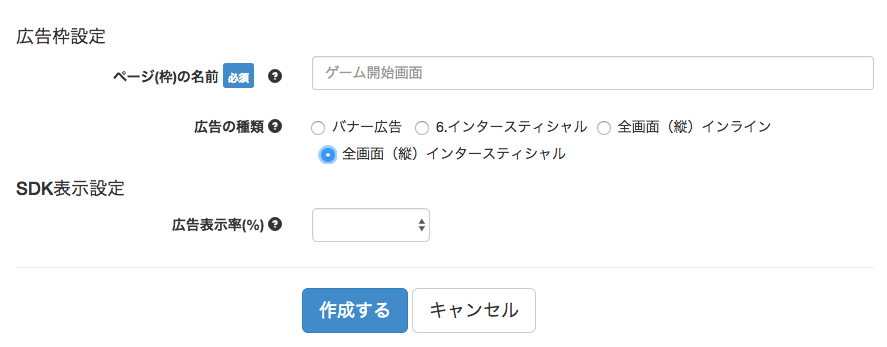
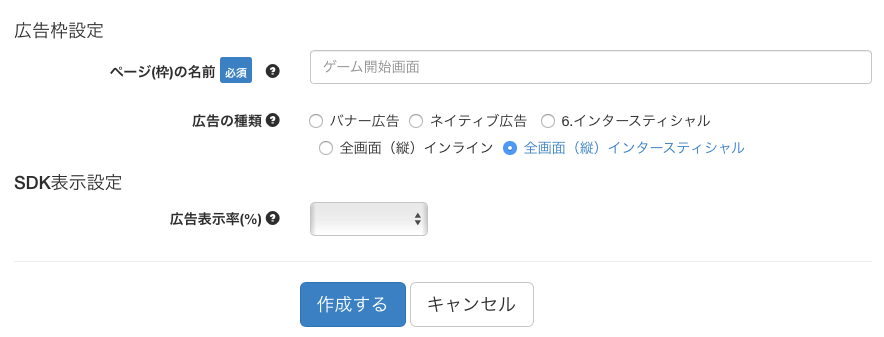
add native ad

diff --git a/media/dashboard/Zucks-Ad-Network-creating-apps-and-ad-units-en.md b/media/dashboard/Zucks-Ad-Network-creating-apps-and-ad-units-en.md
@@ -12,6 +12,7 @@ Describes the steps to create Ad Unit on the Zucks Ad Network dashboard.
     - Interstitial
     - Inline(Fullscreen)
     - Interstitial(Fullscreen)
+    - Native
 
 ## How to create Ad Units
 
@@ -136,6 +137,17 @@ Select the `メディア/広告枠管理` menu and create an application from th
 - Click the `作成する` button to create ad unit
 
 <img src="img/dashboard_create_fullscreen_interstitial.png">
+
+#### Native
+
+- <span style="color:red;">※required</span> : Set the name of the frame to `ページ(枠)の名前` (This is the frame name displayed on the report)
+- Select `ネイティブ広告` from `広告の種類`
+- Choose the size of the ad from `枠のサイズ`
+- Set `インライン` to `枠の掲載位置`
+- Click the `作成する` button to create ad unit
+
+
+<img src="img/dashboard_create_native.png">
 
 ### Adding an Ad Unit
 
